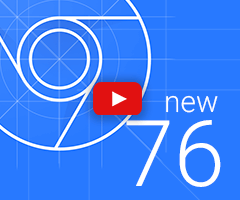
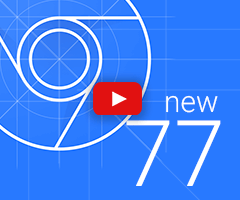
DevTools: Update What's New for Chrome 77
Bug: 986998
Auto-Submit: Kayce Basques <kayce@google.com>
Commit-Queue: Joel Einbinder <einbinder@chromium.org>
Cr-Original-Commit-Position: refs/heads/master@{#680606}
Cr-Mirrored-From: https://chromium.googlesource.com/chromium/src
Cr-Mirrored-Commit: 1d069ddb27cb2ef2890d0c1e99a3fc11c187b959

Changed region(s): [[0.7292, 0.6, 0.9333, 0.96]]

diff --git a/front_end/help/ReleaseNoteText.js b/front_end/help/ReleaseNoteText.js
@@ -7,11 +7,63 @@
 // https://github.com/ChromeDevTools/devtools-frontend/wiki/Release-Notes
 
 const continueToHereShortcut = Host.isMac() ? 'Command' : 'Control';
-const networkSearchShortcut = Host.isMac() ? 'Command + F' : 'Control + F';
-const commandMenuShortcut = Host.isMac() ? 'Command + Shift + P' : 'Control + Shift + P';
+const networkSearchShortcut = Host.isMac() ? 'Command+F' : 'Control+F';
+const commandMenuShortcut = Host.isMac() ? 'Command+Shift+P' : 'Control+Shift+P';
 
 /** @type {!Array<!Help.ReleaseNote>} */
 Help.releaseNoteText = [
+  {
+    version: 19,
+    header: 'Highlights from the Chrome 77 update',
+    highlights: [
+      {
+        title: 'Copy element styles',
+        subtitle: 'Right-click an element in the DOM Tree and select Copy > Copy Styles.',
+        link: 'https://developers.google.com/web/updates/2019/07/devtools#copystyles',
+      },
+      {
+        title: 'Visualize layout shifts',
+        subtitle: `Press ${
+            commandMenuShortcut}, run Show Rendering, and enable Layout Shift Regions to visualize content shifts.`,
+        link: 'https://developers.google.com/web/updates/2019/07/devtools#layoutshifts',
+      },
+      {
+        title: 'Lighthouse 5.1 in the Audits panel',
+        subtitle: 'New audits for checking for PWA installability on iOS, keeping resource counts low, and more.',
+        link: 'https://developers.google.com/web/updates/2019/07/devtools#audits',
+      },
+      {
+        title: 'OS theme syncing',
+        subtitle: 'DevTools now automatically switches to its own dark theme when it detects an OS in dark mode.',
+        link: 'https://developers.google.com/web/updates/2019/07/devtools#theming',
+      },
+      {
+        title: 'Keyboard shortcut for opening the Breakpoint Editor',
+        subtitle: `Press ${
+            Host.isMac() ?
+                'Command+Option+B' :
+                'Control+Alt+B'} when focused in the Editor to create Logpoints and Conditional Breakpoints more quickly.`,
+        link: 'https://developers.google.com/web/updates/2019/07/devtools#breakpointeditor',
+      },
+      {
+        title: 'Prefetch cache in Network panel',
+        subtitle: 'The Size column now indicates whether a resource came from the prefetch cache.',
+        link: 'https://developers.google.com/web/updates/2019/07/devtools#prefetch',
+      },
+      {
+        title: 'Private properties when viewing objects',
+        subtitle: 'The Console now shows private class fields in its object previews.',
+        link: 'https://developers.google.com/web/updates/2019/07/devtools#privateclassfields',
+      },
+      {
+        title: 'Notification and push message logs',
+        subtitle:
+            'Go to Application > Background Services > Notifications or Messages and click Record to log events for 3 days.',
+        link: 'https://developers.google.com/web/updates/2019/07/devtools#backgroundservices',
+      },
+    ],
+    link: 'https://developers.google.com/web/updates/2019/07/devtools',
+  },
   {
     version: 18,
     header: 'Highlights from the Chrome 76 update',
